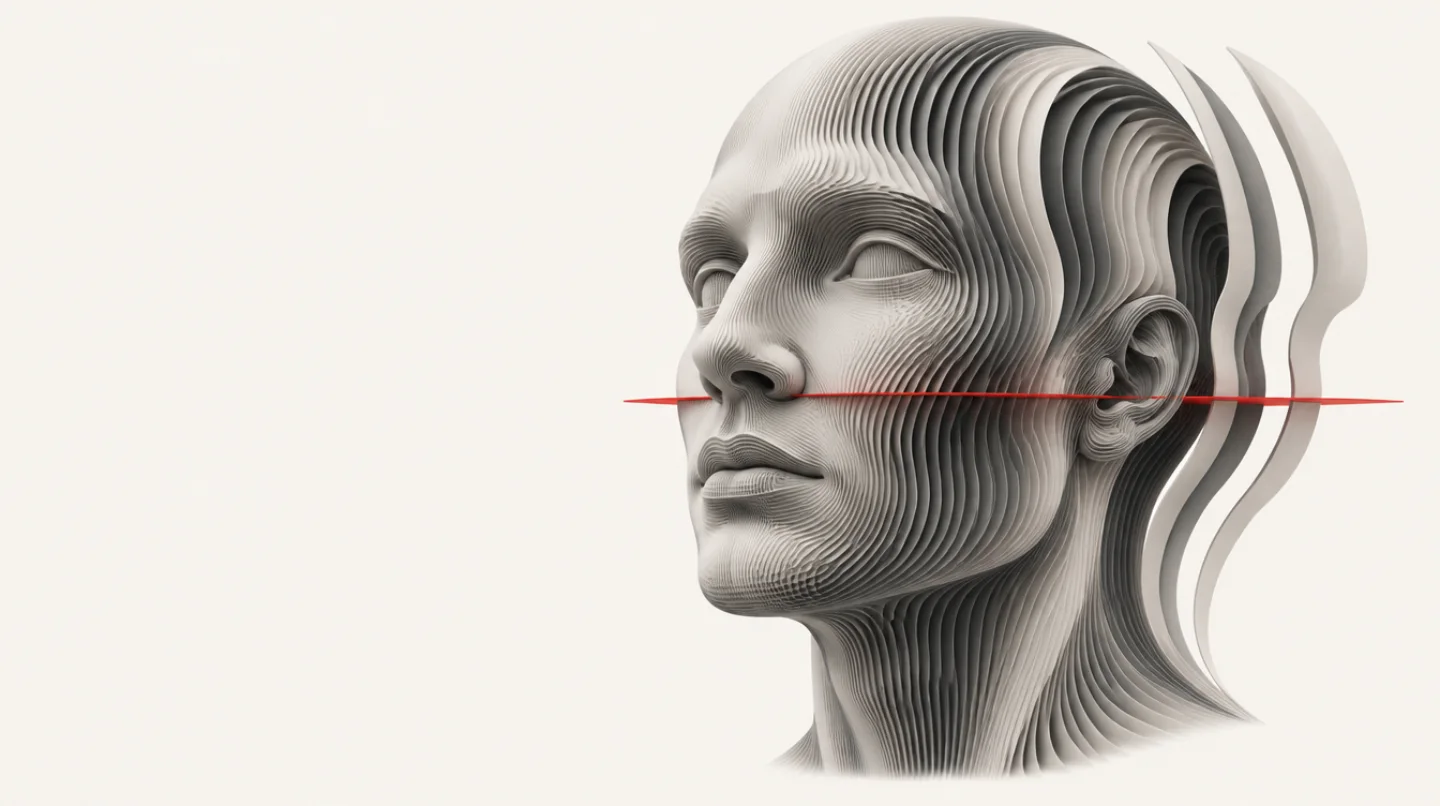
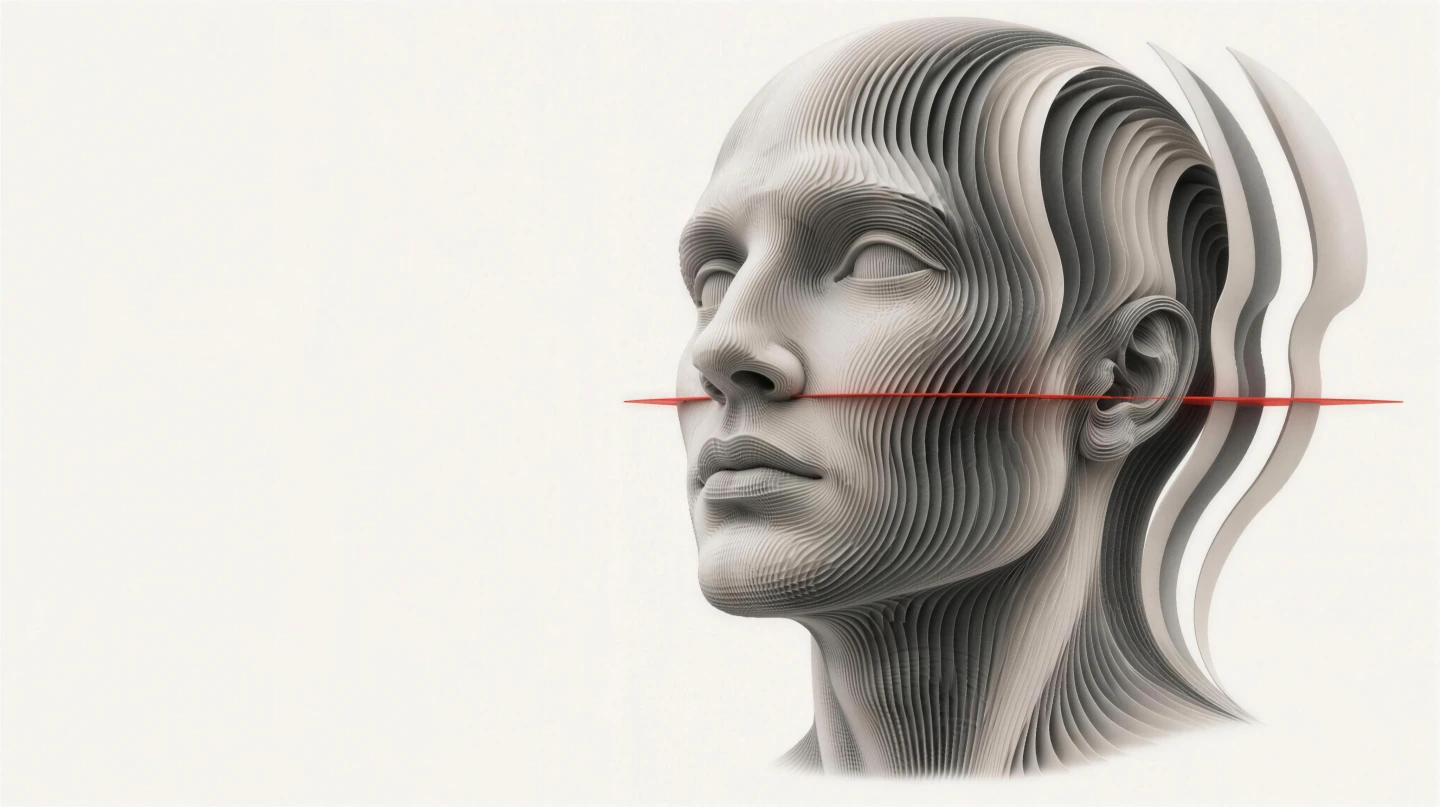
feat: upgrade hero and Labs artwork to responsive 4K assets

Changed region(s): [[0.5312, 0.6514, 0.5938, 0.7444], [0.625, 0.2481, 0.6562, 0.2792], [0.4375, 0.4963, 0.4688, 0.5273]]

diff --git a/site/index.html b/site/index.html
@@ -12,7 +12,7 @@
 <a class="skip-link" href="#main">Skip to content</a>
 <main id="main">
 <section class="hero" id="see" aria-labelledby="hero-heading">
- <div class="hero-art" aria-hidden="true"><img src="assets/hero-1440.webp" srcset="assets/hero-640.webp 640w, assets/hero-960.webp 960w, assets/hero-1440.webp 1440w" sizes="(max-width: 600px) 740px, (max-width: 999px) 1120px, 100vw" width="1440" height="810" fetchpriority="high" decoding="async" alt=""></div>
+ <div class="hero-art" aria-hidden="true"><img src="assets/hero-1440.webp" srcset="assets/hero-640.webp 640w, assets/hero-960.webp 960w, assets/hero-1440.webp 1440w, assets/hero-1920.webp 1920w, assets/hero-2560.webp 2560w, assets/hero-2880.webp 2880w, assets/hero-3840.webp 3840w" sizes="(max-width: 600px) 740px, (max-width: 999px) 1120px, (min-width: 1440px) 1440px, 100vw" width="1440" height="810" fetchpriority="high" decoding="async" alt=""></div>
  <header class="site-header"><a class="brand" href="#see" aria-label="Tattrex home"><img src="assets/logo.svg" width="169" height="30" alt="Tattrex"></a><nav class="desktop-nav" aria-label="Main navigation"><a href="#platform">Platform</a><a href="#labs">Labs</a><a href="#approach">Our approach</a></nav><button class="menu-toggle" type="button" aria-expanded="false" aria-controls="mobile-menu">Menu <span aria-hidden="true">+</span></button></header>
  <div class="hero-purpose"><p>A voice and AI native platform for radiologists.<br> A research partner for what comes next.</p><div class="actions"><a class="button" href="#contact" data-contact="demo">Request a demo <svg width="20" height="20" aria-hidden="true" xmlns="http://www.w3.org/2000/svg" viewBox="0 0 256 256" fill="currentColor"><path d="M200,64V168a8,8,0,0,1-16,0V83.31L69.66,197.66a8,8,0,0,1-11.32-11.32L172.69,72H88a8,8,0,0,1,0-16H192A8,8,0,0,1,200,64Z"/></svg></a><a class="button" href="#contact" data-contact="idea">Bring an idea <svg width="20" height="20" aria-hidden="true" xmlns="http://www.w3.org/2000/svg" viewBox="0 0 256 256" fill="currentColor"><path d="M200,64V168a8,8,0,0,1-16,0V83.31L69.66,197.66a8,8,0,0,1-11.32-11.32L172.69,72H88a8,8,0,0,1,0-16H192A8,8,0,0,1,200,64Z"/></svg></a></div></div>
  <p class="hero-evidence">Platform v0.1<br>Built with radiologists</p>
@@ -39,7 +39,7 @@
  <div class="section-outro"><p>One place for your study, your context and your next action.<br>Shape the workflow around the way you practise.</p><a class="button inverse" href="#contact" data-contact="demo">Request a demo <svg width="20" height="20" aria-hidden="true" xmlns="http://www.w3.org/2000/svg" viewBox="0 0 256 256" fill="currentColor"><path d="M200,64V168a8,8,0,0,1-16,0V83.31L69.66,197.66a8,8,0,0,1-11.32-11.32L172.69,72H88a8,8,0,0,1,0-16H192A8,8,0,0,1,200,64Z"/></svg></a></div>
  <details class="provenance"><summary>Image source and reference annotations</summary><p>Source CT and expert masks: <a href="https://zenodo.org/records/10892316">CPAISD, Umerenkov et al. (2024)</a>, <a href="https://creativecommons.org/licenses/by/4.0/">CC BY 4.0</a>. Source voxels and reference masks are aligned and resampled for display. The highlighted region is a published expert annotation, not a live Tattrex prediction. Priority and report actions are scripted. The comparison uses an explicitly derived illustrative prior; it does not show real interval change.</p><p><a href="simulation/public/data/ATTRIBUTION.txt">Attribution and modification details ↗</a></p></details>
 </section>
-<section class="labs section" id="labs" aria-labelledby="labs-heading"><header class="section-heading"><p class="eyebrow">03 / Discover</p><h2 id="labs-heading">Your questions.<br>A wider field.</h2></header><div class="labs-layout"><figure class="research-atlas"><img src="assets/atlas-1280.webp" srcset="assets/atlas-800.webp 800w, assets/atlas-1280.webp 1280w" sizes="(max-width: 999px) 100vw, 736px" width="1280" height="720" loading="lazy" decoding="async" alt="An artistic full-body imaging atlas, with anatomical studies suspended around a human figure"><div class="atlas-label"><span>Tattrex Labs</span><span>[ 03 ]</span></div><div class="atlas-ticks" aria-hidden="true"></div><figcaption><span>A field of possibilities</span><small>Artistic research visualisation</small></figcaption></figure><div class="research-index"><h3>Tattrex Labs</h3><p>The most useful ideas often begin with something a radiologist notices. We work with you to explore it, build it and bring it toward clinical practice.</p><div class="research-directions"><details name="research" open><summary>Clinical ideas <span aria-hidden="true">+</span></summary><p>Start with an observation from your practice. Together, define the clinical question, build a focused tool and test its value.</p></details><details name="research"><summary>Foundation models <span aria-hidden="true">+</span></summary><p>Develop imaging representations that can support tasks across modalities and anatomy. Each project has a defined data and validation scope.</p></details><details name="research"><summary>Novel biomarkers <span aria-hidden="true">+</span></summary><p>Explore imaging signals that may reveal new information about disease and outcomes. Discovery starts with a testable clinical hypothesis.</p></details></div><a class="button" href="#contact" data-contact="idea">Bring an idea <svg width="20" height="20" aria-hidden="true" xmlns="http://www.w3.org/2000/svg" viewBox="0 0 256 256" fill="currentColor"><path d="M200,64V168a8,8,0,0,1-16,0V83.31L69.66,197.66a8,8,0,0,1-11.32-11.32L172.69,72H88a8,8,0,0,1,0-16H192A8,8,0,0,1,200,64Z"/></svg></a></div></div><div class="research-scope"><h3>Every modality.<br>The whole body.</h3><div><p class="eyebrow">Our research ambition</p><p>From a specific clinical question to models that learn across imaging data. Each collaboration begins with a defined intended use, dataset and validation plan.</p></div></div></section>
+<section class="labs section" id="labs" aria-labelledby="labs-heading"><header class="section-heading"><p class="eyebrow">03 / Discover</p><h2 id="labs-heading">Your questions.<br>A wider field.</h2></header><div class="labs-layout"><figure class="research-atlas"><img src="assets/atlas-1280.webp" srcset="assets/atlas-800.webp 800w, assets/atlas-1280.webp 1280w, assets/atlas-1920.webp 1920w, assets/atlas-2560.webp 2560w, assets/atlas-3840.webp 3840w" sizes="(max-width: 600px) 728px, (max-width: 999px) 1085px, (max-width: 1399px) 1155px, 1260px" width="1280" height="720" loading="lazy" decoding="async" alt="An artistic full-body imaging atlas, with anatomical studies suspended around a human figure"><div class="atlas-label"><span>Tattrex Labs</span><span>[ 03 ]</span></div><div class="atlas-ticks" aria-hidden="true"></div><figcaption><span>A field of possibilities</span><small>Artistic research visualisation</small></figcaption></figure><div class="research-index"><h3>Tattrex Labs</h3><p>The most useful ideas often begin with something a radiologist notices. We work with you to explore it, build it and bring it toward clinical practice.</p><div class="research-directions"><details name="research" open><summary>Clinical ideas <span aria-hidden="true">+</span></summary><p>Start with an observation from your practice. Together, define the clinical question, build a focused tool and test its value.</p></details><details name="research"><summary>Foundation models <span aria-hidden="true">+</span></summary><p>Develop imaging representations that can support tasks across modalities and anatomy. Each project has a defined data and validation scope.</p></details><details name="research"><summary>Novel biomarkers <span aria-hidden="true">+</span></summary><p>Explore imaging signals that may reveal new information about disease and outcomes. Discovery starts with a testable clinical hypothesis.</p></details></div><a class="button" href="#contact" data-contact="idea">Bring an idea <svg width="20" height="20" aria-hidden="true" xmlns="http://www.w3.org/2000/svg" viewBox="0 0 256 256" fill="currentColor"><path d="M200,64V168a8,8,0,0,1-16,0V83.31L69.66,197.66a8,8,0,0,1-11.32-11.32L172.69,72H88a8,8,0,0,1,0-16H192A8,8,0,0,1,200,64Z"/></svg></a></div></div><div class="research-scope"><h3>Every modality.<br>The whole body.</h3><div><p class="eyebrow">Our research ambition</p><p>From a specific clinical question to models that learn across imaging data. Each collaboration begins with a defined intended use, dataset and validation plan.</p></div></div></section>
 <section class="approach section" id="approach" aria-labelledby="approach-heading"><h2 id="approach-heading">A question is<br>only the beginning.</h2><ol class="partnership"><li><span class="step-number">01</span><h3>Find the question</h3><p>Begin with your clinical observation. Define the value and the intended use together.</p></li><li><span class="step-number">02</span><h3>Build the evidence</h3><p>Develop and validate with radiologists involved throughout. Test what matters in practice.</p></li><li><span class="step-number">03</span><h3>Carry it through</h3><p>Tattrex leads the path toward regulatory approval and productisation for the intended use.</p></li></ol></section>
 <section class="statement section" aria-labelledby="statement-heading"><div><h2 id="statement-heading"><span>Your</span> <span>insight.</span><br><span>Made</span> <span>real.</span></h2><p>The next chapter of imaging should be written with the people who read it.</p></div><svg class="statement-mark" viewBox="0 -25 206 150" width="480" height="350" aria-hidden="true"><path d="M5 -25V125M201 -25V125"/><circle cx="103" cy="50" r="70"/></svg></section>
 <section class="faq section" aria-labelledby="faq-heading"><h2 id="faq-heading">Before we begin</h2><div class="faq-list"><details><summary>What can I explore in the current demo? <span aria-hidden="true">+</span></summary><p>The v0.1 demo brings voice commands, study navigation and reporting into one workspace. A demo is the best way to see the current scope and discuss your workflow.</p></details><details><summary>Can I shape the way the platform works? <span aria-hidden="true">+</span></summary><p>Yes. Tattrex is being built with radiologists. Bring the routines, reporting preferences and clinical questions that matter in your practice.</p></details><details><summary>Do I need a finished research proposal for Labs? <span aria-hidden="true">+</span></summary><p>No. Start with a clinical observation or a question about imaging. We work together to define the problem and a useful next step.</p></details><details><summary>Which imaging areas does Labs work on? <span aria-hidden="true">+</span></summary><p>Our research ambition spans imaging modalities and the whole body. Individual collaborations have a defined clinical question, dataset and validation scope.</p></details><details><summary>How do ideas become clinical products? <span aria-hidden="true">+</span></summary><p>We work together on development and validation. Tattrex takes responsibility for the path toward regulatory approval and productisation. Requirements depend on the intended use and market.</p></details><details><summary>Are the research models already cleared for clinical use? <span aria-hidden="true">+</span></summary><p>Research and clinical deployment are separate stages. Availability, validation and regulatory status are assessed for each product and intended use.</p></details></div></section>

diff --git a/docs/website-verification.md b/docs/website-verification.md
@@ -2,7 +2,13 @@
 
 Implemented the approved Figma layout using the native layer export and reference renders. Visually checked the porcelain hero, dark image-and-spectrum interaction, research atlas, stepped partnership, statement, FAQ, contact and oversized wordmark. Checked responsive layouts at 360, 390, 768 and 1440 pixels.
 
-## Production performance
+## 4K artwork update
+
+The hero and Labs art now have 4096 × 2294 masters, upscaled from the approved compositions through Higgsfield. Quality-92 responsive WebP exports extend to 3840px wide. The atlas `sizes` hint now matches the full image width behind the crop rather than the narrower visible frame. Browser checks verify actual selected URLs at 1x, 2x and 3x density, including the 4K variant. Medical scans and masks were left unchanged at the owner's request.
+
+The updated mobile Lighthouse audit scores **99 performance / 100 accessibility / 100 best practices / 100 SEO**, with 2.1s LCP, 0ms blocking time and zero layout shift. Total audit resource weight is 265 KiB. The calculated opening asset budget on a 3x mobile screen is 283,269 bytes, below 350 KB. The 25 unit/build checks and dedicated responsive-artwork browser checks pass. Reproduce the image exports with `npm run prepare:artwork` and selection checks with `npm run test:artwork`.
+
+## Initial implementation performance, before the 4K update
 
 Lighthouse 13.6.0 against the production `dist/` build, served locally with Brotli. Separate temporary headless Chrome profiles were used; no personal browser profile was accessed.
 

diff --git a/README.md b/README.md
@@ -20,6 +20,8 @@ Open http://127.0.0.1:4321. This builds and serves the production files. Run `np
 
 The main route loads a responsive WebP hero and a self-hosted Manrope font. The scan engine and all volumes load only after Play, chapter selection or opening the typed interaction. Below-fold artwork uses native lazy loading. Animations pause offscreen and respect reduced motion. The logo ring appears only while a study is actually loading.
 
+Hero and Labs artwork use preserved **4096 × 2294** Higgsfield-upscaled masters, with quality-92 WebP variants up to 3840px wide. Responsive selection accounts for screen density and the atlas's full rendered width behind its crop. Logos and icons remain SVG; medical scans and masks are unchanged. Run `npm run prepare:artwork` to reproduce the exports (requires `cwebp`), and `npm run test:artwork` to verify 1x/2x/3x browser selection. Source job IDs and export settings are in `design/assets/artwork-4k-manifest.json`.
+
 The comparison volume is encoded as a lossless XOR delta against the current study. The complete compressed volume payload is approximately 9.3 MB, fetched only on deliberate interaction. A test verifies the decoded prior against the original SHA-256; source HU and masks are unchanged.
 
 ## Contact setup
